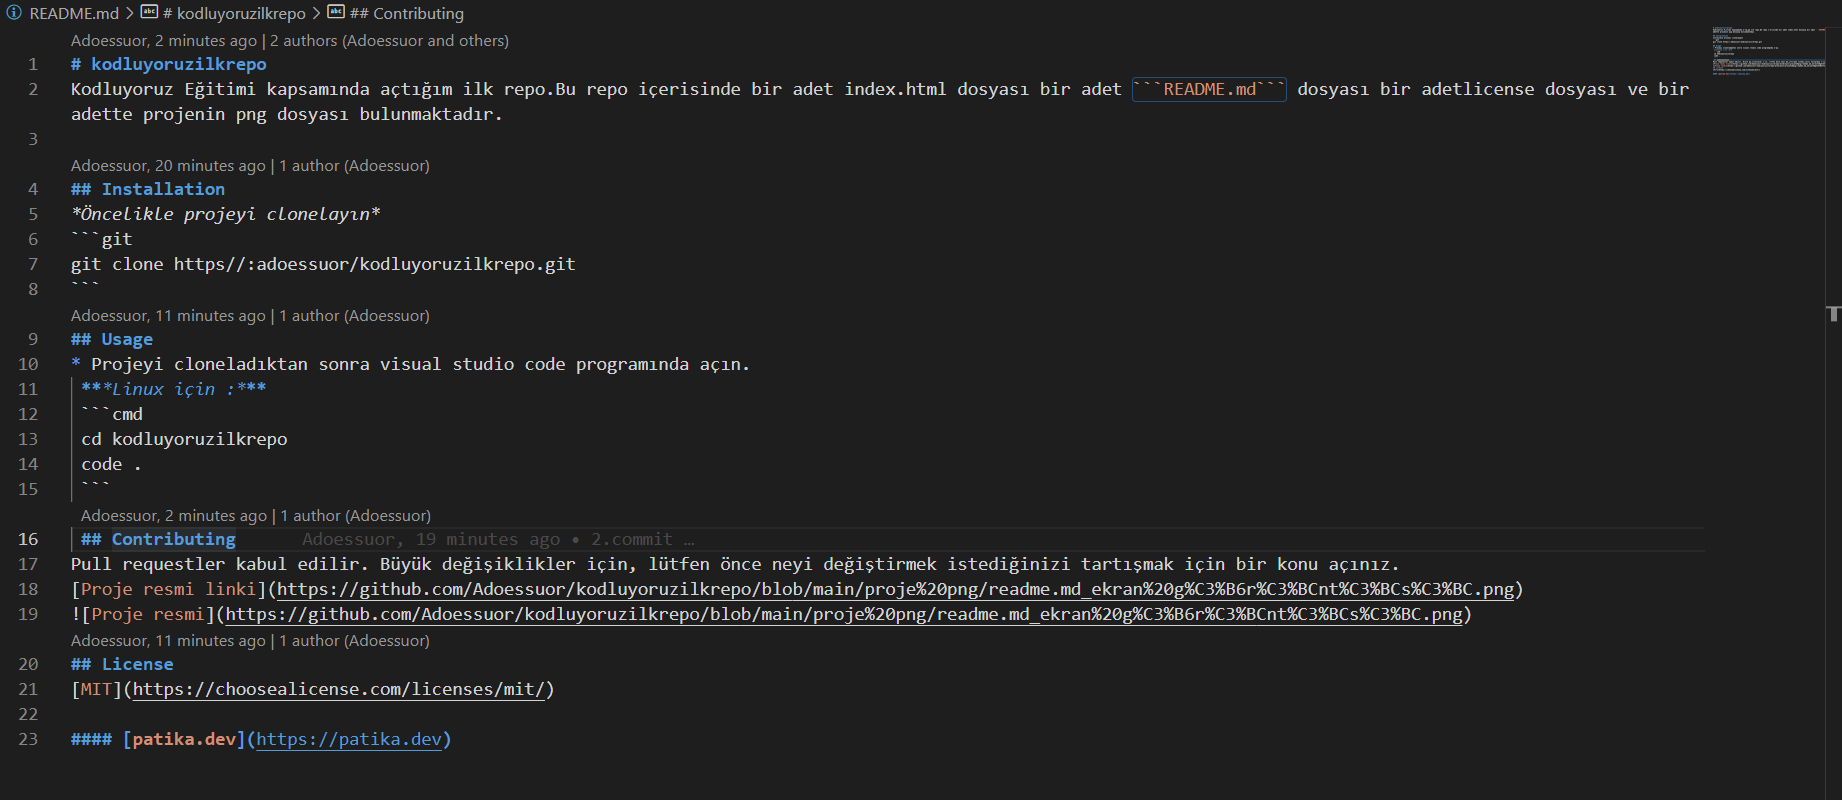
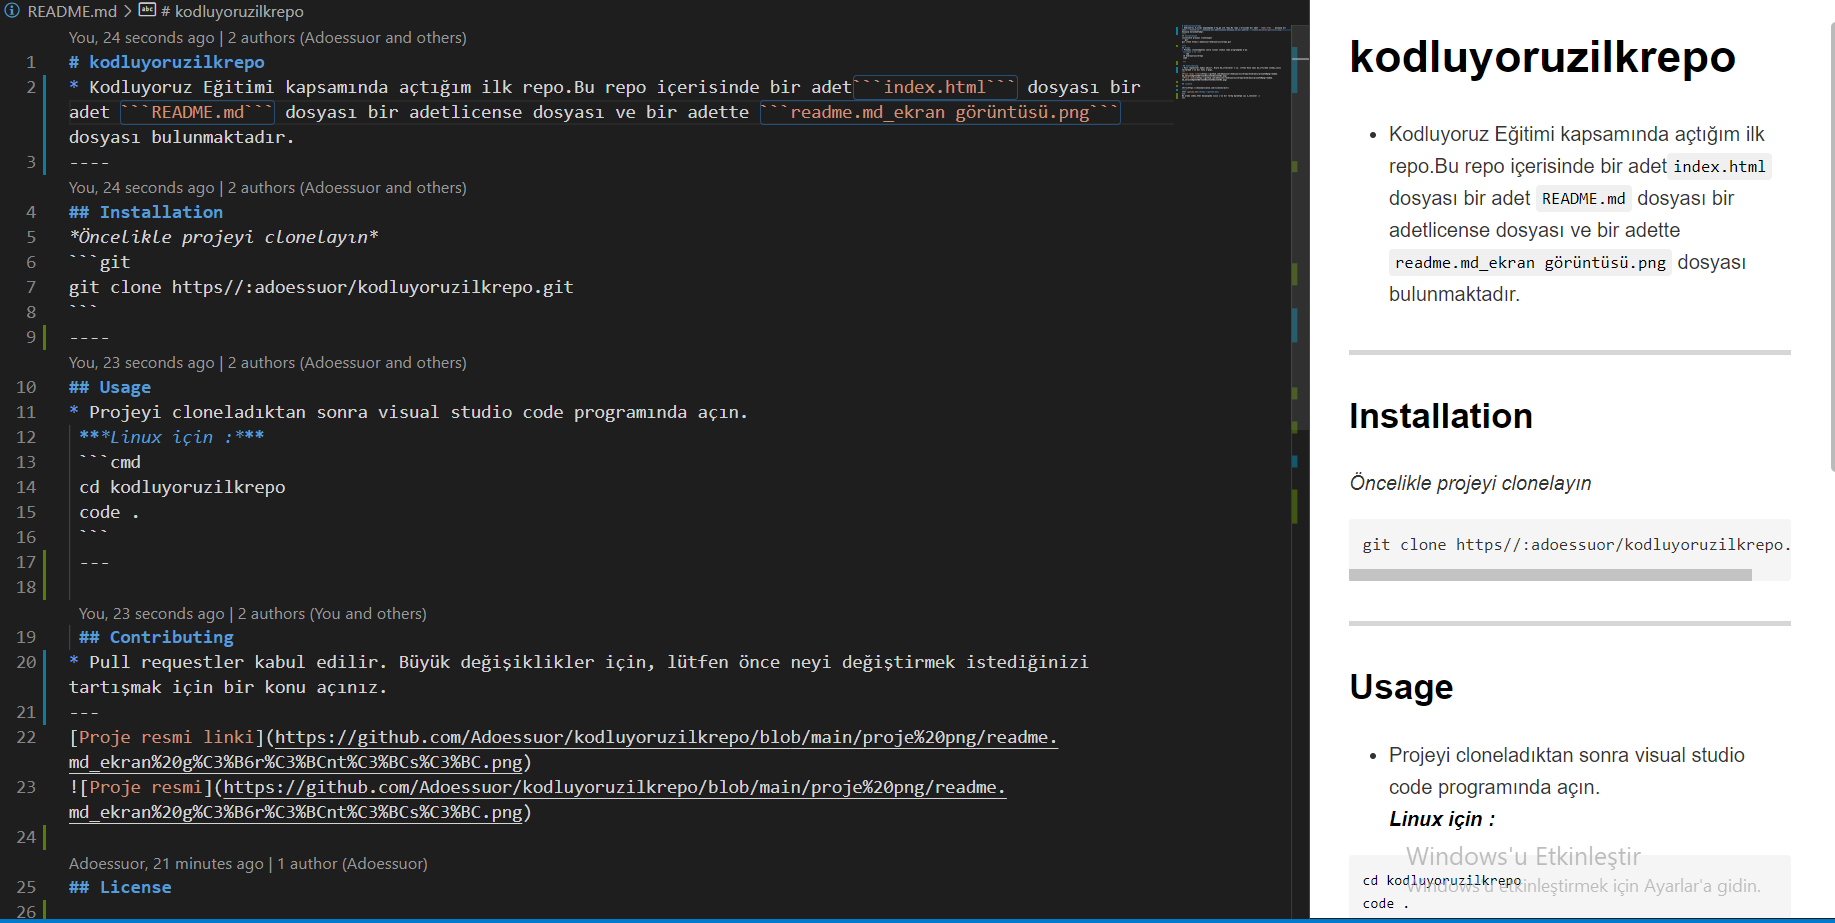
son değişiklik

diff --git a/index.html b/index.html
@@ -1,0 +1,2 @@
+<h1>Merhaba ben Safa </h1>
+Bu da bu aralar çok dinlediğim, <a href="https://www.youtube.com/watch?v=k7fihig4u0Y">favori şarkım</a> iyi eğlenceler :)

diff --git a/README.md b/README.md
@@ -1,11 +1,12 @@
 # kodluyoruzilkrepo
-Kodluyoruz Eğitimi kapsamında açtığım ilk repo.Bu repo içerisinde bir adet index.html dosyası bir adet ```README.md``` dosyası bir adetlicense dosyası ve bir adette projenin png dosyası bulunmaktadır.
-
+* Kodluyoruz Eğitimi kapsamında açtığım ilk repo.Bu repo içerisinde bir adet```index.html``` dosyası bir adet ```README.md``` dosyası bir adetlicense dosyası ve bir adette ```readme.md_ekran görüntüsü.png``` dosyası bulunmaktadır.
+----
 ## Installation 
 *Öncelikle projeyi clonelayın*
 ```git
 git clone https//:adoessuor/kodluyoruzilkrepo.git
 ```
+----
 ## Usage
 * Projeyi cloneladıktan sonra visual studio code programında açın.
  ***Linux için :***
@@ -13,11 +14,19 @@ git clone https//:adoessuor/kodluyoruzilkrepo.git
  cd kodluyoruzilkrepo
  code .
  ```
+ ---
+
  ## Contributing
-Pull requestler kabul edilir. Büyük değişiklikler için, lütfen önce neyi değiştirmek istediğinizi tartışmak için bir konu açınız.
+* Pull requestler kabul edilir. Büyük değişiklikler için, lütfen önce neyi değiştirmek istediğinizi tartışmak için bir konu açınız.
+---
 [Proje resmi linki](https://github.com/Adoessuor/kodluyoruzilkrepo/blob/main/proje%20png/readme.md_ekran%20g%C3%B6r%C3%BCnt%C3%BCs%C3%BC.png)
 ![Proje resmi](https://github.com/Adoessuor/kodluyoruzilkrepo/blob/main/proje%20png/readme.md_ekran%20g%C3%B6r%C3%BCnt%C3%BCs%C3%BC.png)
-## License
-[MIT](https://choosealicense.com/licenses/mit/)
 
+## License
+
+[MIT](https://choosealicense.com/licenses/mit/)
+-----
 #### [patika.dev](https://patika.dev)
+***  
+Bu arada index.html dosyasında sizin için bir şarkı bıraktım iyi eğlenceler :)
+***
